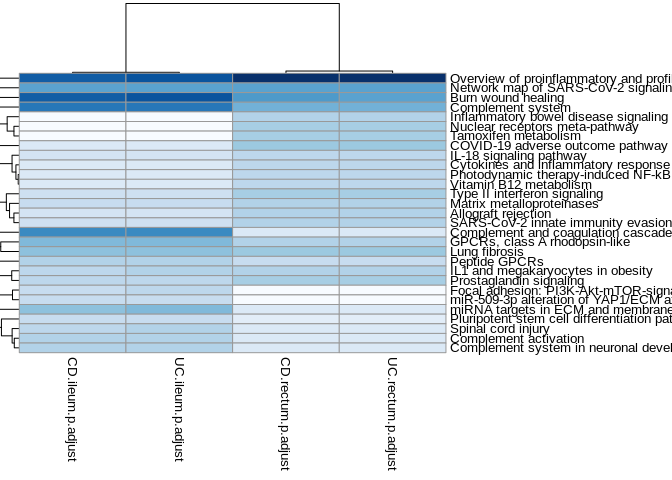
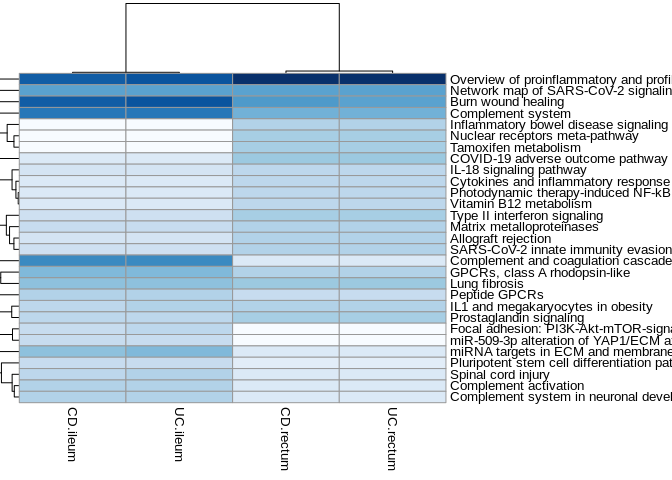
Update notebooks step 4

diff --git a/transcriptomics_analysis/4-create_heatmap/heatMap.md b/transcriptomics_analysis/4-create_heatmap/heatMap.md
@@ -130,6 +130,27 @@ all.pathways[all.pathways$Description %in% df$Description,]$UC.rectum.p.adjust <
 #take only required columns
 row.names(all.pathways) <- all.pathways$Description
 all.pathways  <- all.pathways[,2:5]
+colnames(all.pathways) <- c("CD.ileum","CD.rectum","UC.ileum","UC.rectum")
+
+## Select a size to visualize the heatmap with (options; large or small)
+size_heatmap <- "small"
+
+if (size_heatmap == "large") {
+  ##Print labels large for paper, small for notebook:
+fontsize_row_l = 30 
+fontsize_col_l = 30 
+width_l =2000 
+height_l =2000 
+name_heatmap_file <- "output/heatmap_log10_large.png"
+}else if(size_heatmap == "small"){ 
+    ##Print labels large for paper, small for notebook:
+fontsize_row_l = 10 
+fontsize_col_l = 10 
+width_l =1500 
+height_l =1500 
+name_heatmap_file <- "output/heatmap_log10_small.png"
+}else{print("Size not Recognised")}
+
 
 #normally darker value represent higher values light color represent smaller values
 #when we use rev function higher ones represented by light color
@@ -137,21 +158,22 @@ colMain <- colorRampPalette(rev(brewer.pal(9, "Blues")))(30)
  
 my_heatmap <- pheatmap(as.matrix(log10(all.pathways)), 
                        scale = "none", color = colMain ,
-                       cellwidth = 80, treeheight_row = 200)
+                       cellwidth = 80, treeheight_row = 200, fontsize_row= fontsize_row_l, fontsize_col = fontsize_col_l)
 ```
 
 ![](heatMap_files/figure-markdown_github/heatmap-1.png)
 
 ``` r
 #save obtained heatmap
-save_pheatmap_png <- function(x, filename, width=1500, height=1500) {
+save_pheatmap_png <- function(x, filename, width = width_l, height = height_l) {
   png(filename, width = width, height = height)
   grid::grid.newpage()
   grid::grid.draw(x$gtable)
   dev.off()
 }
+
 ##p-values are visalized on a log10 scale, to make them more discriminatory.
-save_pheatmap_png(my_heatmap, "output/heatmap_log10.png")
+save_pheatmap_png(my_heatmap, name_heatmap_file)
 ```
 
     ## png 
@@ -166,7 +188,7 @@ devtools::install_github("mkearney/rmd2jupyter", force=TRUE)
 ```
 
     ## 
-    ## * checking for file ‘/tmp/RtmphmNERL/remotes4f4f7af8fff0/mkearney-rmd2jupyter-d2bd2aa/DESCRIPTION’ ... OK
+    ## * checking for file ‘/tmp/RtmpewQlyU/remotes56ce4170fad7/mkearney-rmd2jupyter-d2bd2aa/DESCRIPTION’ ... OK
     ## * preparing ‘rmd2jupyter’:
     ## * checking DESCRIPTION meta-information ... OK
     ## * checking for LF line-endings in source and make files and shell scripts
